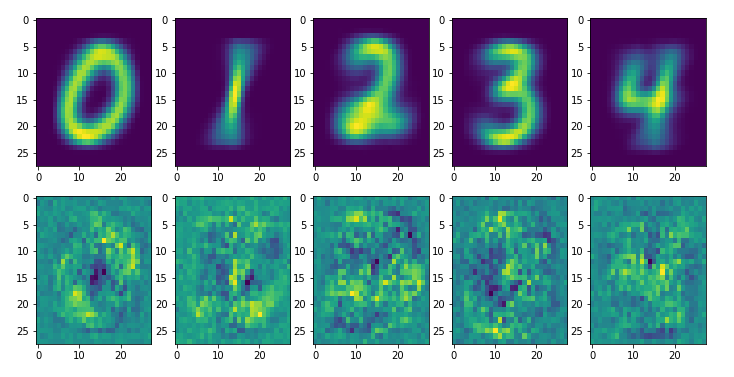
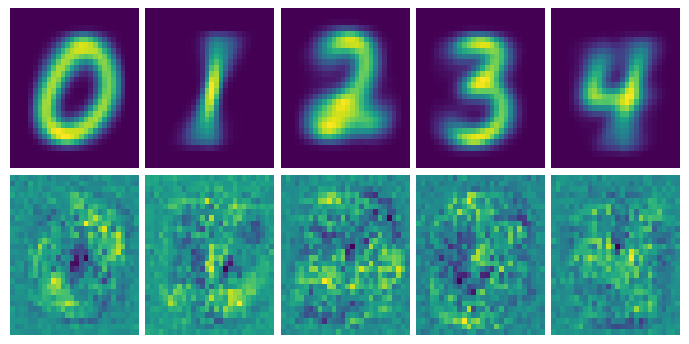
Fixed some missing stuff

diff --git a/_posts/2018-10-07-mnist-tensorflow.md b/_posts/2018-10-07-mnist-tensorflow.md
@@ -4,9 +4,9 @@ title: Understanding Tensorflow with MNIST
 date: 2018-10-07
 author: Dorian 
 categories: [machine-learning, tensorflow]
-picture: /assets/images/mnist/title_banner.jpg
+picture: /assets/images/mnist/ideal_outputs.png
 published: true
-excerpt: Something about article here
+excerpt: During a hackathon at work I finally had tensorflow and it's api "click" for me. This article shares some of what made it click for me, in addition to the other stuff I did trying to understand the weights of the trained network better.
 ---
 
 Recently at work we had a hackathon on tensorflow, which is something I'd tried (running examples) but never really took the time to play with it. I'd like to share my experiences on the tensorflow computational graph, and some of the flexibility it has to do cool stuff.
